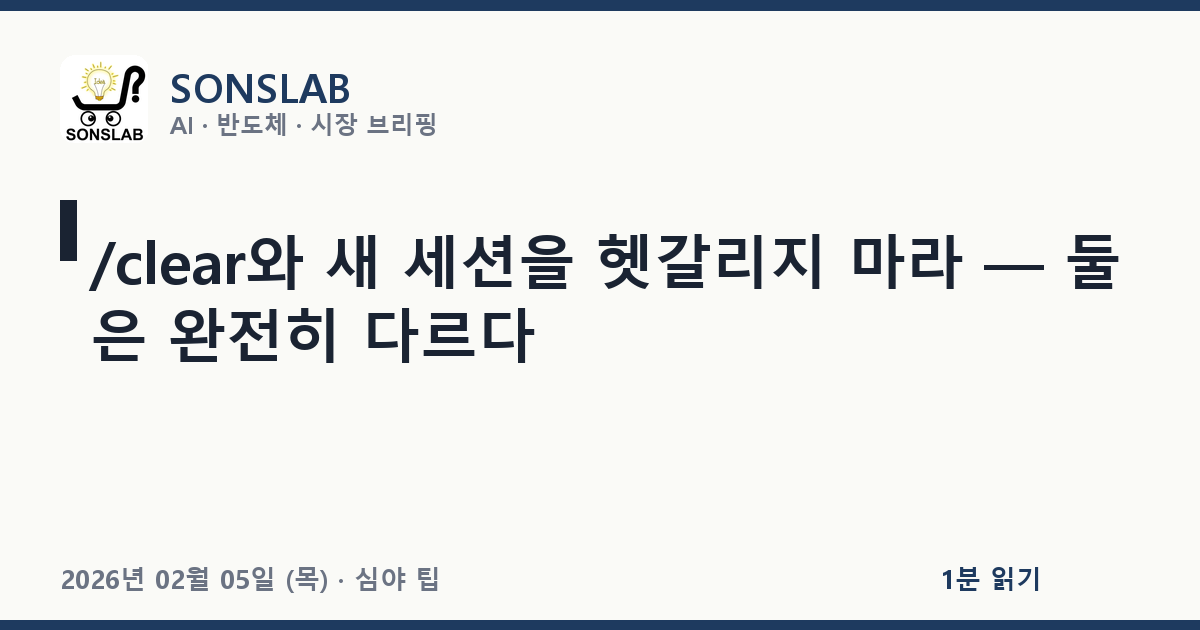
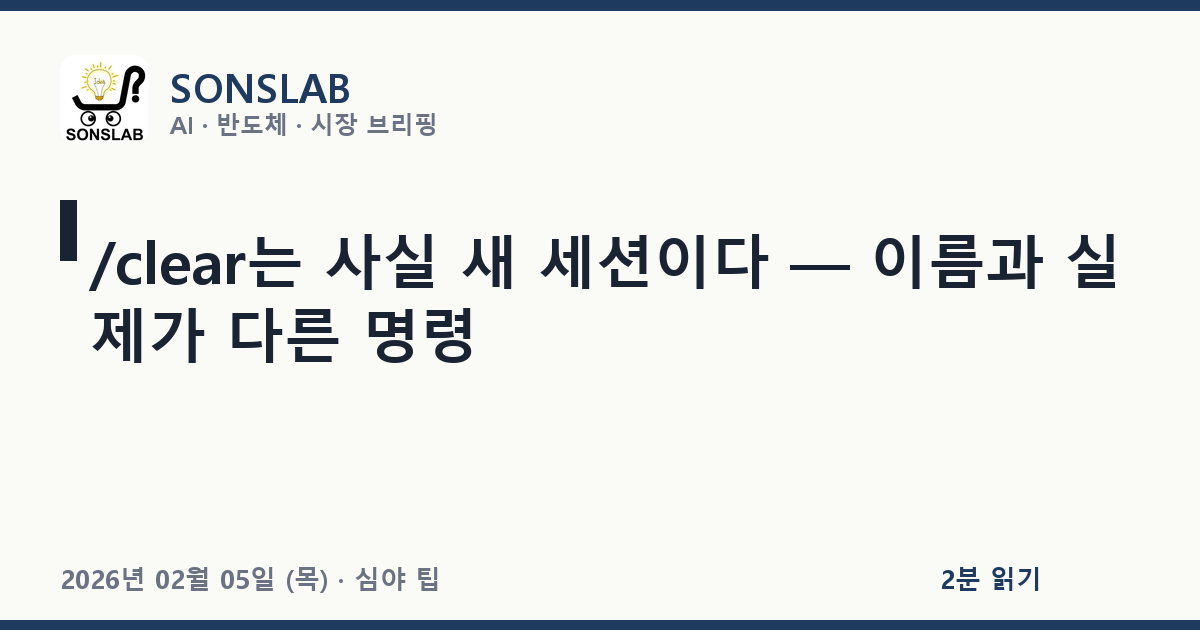
Update: 2026-04-26 11:38

Changed region(s): [[0.2775, 0.3619, 0.9558, 0.573], [0.0617, 0.3619, 0.2775, 0.573], [0.7708, 0.9048, 0.8017, 0.9349]]

diff --git a/claude-tips/index.html b/claude-tips/index.html
@@ -144,7 +144,7 @@
 
 <section class="posts-section" id="posts">
     <div class="section-label">최근 발행 — 총 18편</div>
-    <section class="aitech-month-group"><div class="aitech-month-label">2026년 4월 · 1편</div><div class="aitech-card-list"><article class="aitech-card"><div class="card-meta"><span class="topic-pill">초급 팁</span><span>2026년 04월 26일 (일) · 23:43 · 2분</span></div><h2><a href="2026-04-26-pm23.html">/clear와 /compact의 차이만 알아도 컨텍스트가 두 배로 늘어난다</a></h2><p>/clear는 컨텍스트 윈도우를 통째로 비우고, /compact는 지금까지 대화를 짧은 요약으로 접어 같은 세션을 이어간다. 둘을 섞어 쓰면 긴 작업에서도 토큰을 두 배로 굴릴 수 있다.</p></article></div></section><section class="aitech-month-group"><div class="aitech-month-label">2026년 3월 · 9편</div><div class="aitech-card-list"><article class="aitech-card"><div class="card-meta"><span class="topic-pill">고급 팁</span><span>2026년 03월 30일 (월) · 23:48 · 2분</span></div><h2><a href="2026-03-30-pm23.html">다중 에이전트 오케스트레이션 — 실제 적용 패턴 세 가지</a></h2><p>여러 에이전트를 묶어 일을 시킬 때 가장 자주 손에 잡히는 패턴은 fan-out / pipeline / referee 셋이다. 무작정 에이전트를 늘리는 건 비용만 키운다. 패턴을 의식하고 설계하면 토큰 대비 결과 품질이 명확히 올라간다.</p></article><article class="aitech-card"><div class="card-meta"><span class="topic-pill">중급 팁</span><span>2026년 03월 27일 (금) · 23:27 · 1분</span></div><h2><a href="2026-03-27-pm23.html">bash 도구를 allowlist로 묶어 사고 위험을 한 자리수로 떨어뜨린다</a></h2><p>Bash 도구를 자유 실행으로 두면 한 번의 잘못된 응답이 큰 사고로 이어진다. settings의 permissions로 명령 패턴을 화이트리스트화하면, Claude가 그 외 명령을 만나면 사용자에게 권한 확인을 묻고 멈춘다.</p></article><article class="aitech-card"><div class="card-meta"><span class="topic-pill">업데이트</span><span>2026년 03월 24일 (화) · 23:59 · 2분</span></div><h2><a href="2026-03-24-pm23.html">Claude Code의 plugin 시스템 — Cowork·CLI 양쪽에서 정리한다</a></h2><p>Claude Code와 Cowork 양쪽 모두 plugin이라는 단위로 MCP 서버·스킬·슬래시 명령·설정을 한 묶음으로 패키징·설치·공유할 수 있다. 마켓플레이스 개념도 같이 자리잡고 있어, 사내·팀별로 모음을 둘 수 있는 흐름이 굳어졌다.</p></article><article class="aitech-card"><div class="card-meta"><span class="topic-pill">초급 팁</span><span>2026년 03월 20일 (금) · 23:24 · 2분</span></div><h2><a href="2026-03-20-pm23.html">settings.json 우선순위 — 한 번 알면 다시 안 헷갈린다</a></h2><p>설정은 (1) 사용자 전역 → (2) 프로젝트 공유 → (3) 프로젝트 로컬 순서로 점점 좁아지며 덮어쓴다. 각 파일이 어디 있는지·어디까지 권한이 있는지만 외우면 hook·permission·model 설정이 어떻게 합쳐지는지 그림이 보인다.</p></article><article class="aitech-card"><div class="card-meta"><span class="topic-pill">고급 팁</span><span>2026년 03월 16일 (월) · 23:12 · 2분</span></div><h2><a href="2026-03-16-pm23.html">Claude Agent SDK로 첫 자동화 봇을 30분 만에 띄운다</a></h2><p>Claude Agent SDK는 Claude Code의 도구·에이전트 루프·컨텍스트 관리를 그대로 떼어 자기 코드 안에서 돌릴 수 있게 한 SDK다. CLI 없이 백엔드에서 에이전트를 굴리고 싶을 때의 정답이다.</p></article><article class="aitech-card"><div class="card-meta"><span class="topic-pill">중급 팁</span><span>2026년 03월 13일 (금) · 23:16 · 1분</span></div><h2><a href="2026-03-13-pm23.html">git worktree와 Claude Code: 두 흐름을 실수 없이 동시에 돌리는 법</a></h2><p>같은 리포에서 두 가지 작업(긴급 패치 + 큰 리팩터)을 번갈아 하다 보면 stash·branch checkout으로 시간이 새기 시작한다. git worktree로 디렉터리를 두 개 두면, 각 디렉터리에 Claude Code 세션을 따로 띄울 수 있어 충돌이 사라진다.</p></article><article class="aitech-card"><div class="card-meta"><span class="topic-pill">초급 팁</span><span>2026년 03월 09일 (월) · 23:39 · 1분</span></div><h2><a href="2026-03-09-pm23.html">/compact를 언제 누르면 가장 이득인가</a></h2><p>/compact는 너무 일찍 누르면 결정 흐름이 사라지고, 너무 늦게 누르면 이미 응답 품질이 흔들린 뒤다. 컨텍스트 사용률 70~85% 구간이 가장 이득 보는 타이밍이다.</p></article><article class="aitech-card"><div class="card-meta"><span class="topic-pill">S/W 신기술</span><span>2026년 03월 06일 (금) · 23:00 · 1분</span></div><h2><a href="2026-03-06-pm23.html">Cursor와 Claude Code, 겹치는 영역과 갈리는 영역</a></h2><p>AI 코딩 도구가 두 갈래로 자리잡고 있다. 한쪽은 IDE 안에서 살아 자동완성·인라인 편집을 강하게 미는 Cursor 계열, 다른 쪽은 터미널에서 살아 셸·파일·도구를 묶어 일을 맡기는 Claude Code 계열이다.</p></article><article class="aitech-card"><div class="card-meta"><span class="topic-pill">초급 팁</span><span>2026년 03월 02일 (월) · 23:44 · 1분</span></div><h2><a href="2026-03-02-pm23.html">--print 모드: Claude Code를 셸 한 줄 명령처럼 쓴다</a></h2><p>--print(또는 -p) 플래그는 인터랙티브 세션 없이 한 번 묻고 한 번 답받는 모드다. 셸 파이프라인에 끼워 넣으면 grep·jq·sed처럼 Claude를 텍스트 변환기로 쓸 수 있다.</p></article></div></section><section class="aitech-month-group"><div class="aitech-month-label">2026년 2월 · 8편</div><div class="aitech-card-list"><article class="aitech-card"><div class="card-meta"><span class="topic-pill">고급 팁</span><span>2026년 02월 27일 (금) · 23:48 · 1분</span></div><h2><a href="2026-02-27-pm23.html">커스텀 슬래시 명령으로 매일 쓰는 흐름을 한 줄에 묶는다</a></h2><p>자주 쓰는 작업 흐름은 그대로 슬래시 명령으로 굳혀버리자. 마크다운 한 장이 명령 한 줄이 된다. 같은 지시문을 매일 복붙하던 시간이 사라진다.</p></article><article class="aitech-card"><div class="card-meta"><span class="topic-pill">중급 팁</span><span>2026년 02월 23일 (월) · 23:33 · 2분</span></div><h2><a href="2026-02-23-pm23.html">MCP 서버를 5분 만에 직접 띄워본다</a></h2><p>MCP 서버는 결국 stdin/stdout으로 JSON-RPC를 주고받는 작은 서비스다. 공식 Python SDK의 FastMCP로 함수 하나에 데코레이터만 달면, 첫 자작 MCP를 5분 안에 띄울 수 있다.</p></article><article class="aitech-card"><div class="card-meta"><span class="topic-pill">중급 팁</span><span>2026년 02월 19일 (목) · 23:33 · 2분</span></div><h2><a href="2026-02-19-pm23.html">PreToolUse hook 한 줄로 위험한 명령을 사전 차단한다</a></h2><p>PreToolUse hook은 Claude가 도구를 호출하기 직전에 끼어들어 입력을 검사·차단할 수 있는 훅이다. rm -rf나 git push --force 같이 한 번 잘못 나가면 끝인 명령을 정책으로 막아두면, 머리 속에서 한 가지 걱정거리를 비울 수 있다.</p></article><article class="aitech-card"><div class="card-meta"><span class="topic-pill">초급 팁</span><span>2026년 02월 16일 (월) · 23:24 · 1분</span></div><h2><a href="2026-02-16-pm23.html">--continue와 --resume 차이만 알아도 작업 흐름이 두 배 깔끔해진다</a></h2><p>claude --continue는 마지막 세션을 그대로 이어 시작한다. claude --resume &lt;id&gt;는 ID로 지정한 특정 세션을 골라 이어 시작한다. 헷갈리면 매일 새 세션이 쌓여 정작 어제 작업으로 돌아갈 길을 잃는다.</p></article><article class="aitech-card"><div class="card-meta"><span class="topic-pill">고급 팁</span><span>2026년 02월 12일 (목) · 23:28 · 2분</span></div><h2><a href="2026-02-12-pm23.html">CLAUDE.md를 한 장이 아니라 @import로 쪼개 운영하라</a></h2><p>CLAUDE.md는 매 세션 자동 로딩되는 메모리 파일이다. 한 장에 다 욱여넣으면 토큰만 잡아먹는다. @path/to/file 임포트 문법을 써서 주제별로 쪼개고, CLAUDE.md에는 인덱스만 남기면 컨텍스트 비용을 절반 이하로 줄이면서 더 많은 정보를 보존할 수 있다.</p></article><article class="aitech-card"><div class="card-meta"><span class="topic-pill">중급 팁</span><span>2026년 02월 09일 (월) · 23:12 · 1분</span></div><h2><a href="2026-02-09-pm23.html">서브에이전트, 한 번 써보면 손에서 안 떨어진다</a></h2><p>서브에이전트는 별도 컨텍스트로 돌아가는 보조 Claude다. 독립된 임무(검색, 검증, 정리)를 맡기면 본 세션의 컨텍스트가 깔끔해지고, 작업 품질도 올라간다.</p></article><article class="aitech-card"><div class="card-meta"><span class="topic-pill">초급 팁</span><span>2026년 02월 05일 (목) · 23:52 · 1분</span></div><h2><a href="2026-02-05-pm23.html">/clear와 새 세션을 헷갈리지 마라 — 둘은 완전히 다르다</a></h2><p>/clear는 같은 세션의 컨텍스트만 비우고, 새 세션은 메모리·시스템 프롬프트는 두되 대화 이력·캐시·도구 결과 일체를 새로 시작한다. 둘을 구분 못 하면 토큰 낭비로 직결된다.</p></article><article class="aitech-card"><div class="card-meta"><span class="topic-pill">초급 팁</span><span>2026년 02월 02일 (월) · 23:08 · 1분</span></div><h2><a href="2026-02-02-pm23.html">/init 한 번이면 CLAUDE.md를 5분 안에 채울 수 있다</a></h2><p>/init 슬래시 명령은 현재 디렉터리를 훑어 코드 베이스의 골격을 정리한 CLAUDE.md를 자동 생성한다. 빈 프로젝트에서 시작할 필요 없이, 마음에 안 드는 부분만 손보면 된다.</p></article></div></section>
+    <section class="aitech-month-group"><div class="aitech-month-label">2026년 4월 · 1편</div><div class="aitech-card-list"><article class="aitech-card"><div class="card-meta"><span class="topic-pill">초급 팁</span><span>2026년 04월 26일 (일) · 23:43 · 2분</span></div><h2><a href="2026-04-26-pm23.html">/clear와 /compact의 차이만 알아도 컨텍스트가 두 배로 늘어난다</a></h2><p>/clear는 컨텍스트 윈도우를 통째로 비우고, /compact는 지금까지 대화를 짧은 요약으로 접어 같은 세션을 이어간다. 둘을 섞어 쓰면 긴 작업에서도 토큰을 두 배로 굴릴 수 있다.</p></article></div></section><section class="aitech-month-group"><div class="aitech-month-label">2026년 3월 · 9편</div><div class="aitech-card-list"><article class="aitech-card"><div class="card-meta"><span class="topic-pill">고급 팁</span><span>2026년 03월 30일 (월) · 23:48 · 2분</span></div><h2><a href="2026-03-30-pm23.html">다중 에이전트 오케스트레이션 — 실제 적용 패턴 세 가지</a></h2><p>여러 에이전트를 묶어 일을 시킬 때 가장 자주 손에 잡히는 패턴은 fan-out / pipeline / referee 셋이다. 무작정 에이전트를 늘리는 건 비용만 키운다. 패턴을 의식하고 설계하면 토큰 대비 결과 품질이 명확히 올라간다.</p></article><article class="aitech-card"><div class="card-meta"><span class="topic-pill">중급 팁</span><span>2026년 03월 27일 (금) · 23:27 · 1분</span></div><h2><a href="2026-03-27-pm23.html">bash 도구를 allowlist로 묶어 사고 위험을 한 자리수로 떨어뜨린다</a></h2><p>Bash 도구를 자유 실행으로 두면 한 번의 잘못된 응답이 큰 사고로 이어진다. settings의 permissions로 명령 패턴을 화이트리스트화하면, Claude가 그 외 명령을 만나면 사용자에게 권한 확인을 묻고 멈춘다.</p></article><article class="aitech-card"><div class="card-meta"><span class="topic-pill">업데이트</span><span>2026년 03월 24일 (화) · 23:59 · 2분</span></div><h2><a href="2026-03-24-pm23.html">Claude Code의 plugin 시스템 — Cowork·CLI 양쪽에서 정리한다</a></h2><p>Claude Code와 Cowork 양쪽 모두 plugin이라는 단위로 MCP 서버·스킬·슬래시 명령·설정을 한 묶음으로 패키징·설치·공유할 수 있다. 마켓플레이스 개념도 같이 자리잡고 있어, 사내·팀별로 모음을 둘 수 있는 흐름이 굳어졌다.</p></article><article class="aitech-card"><div class="card-meta"><span class="topic-pill">초급 팁</span><span>2026년 03월 20일 (금) · 23:24 · 2분</span></div><h2><a href="2026-03-20-pm23.html">settings.json 우선순위 — 한 번 알면 다시 안 헷갈린다</a></h2><p>설정은 (1) 사용자 전역 → (2) 프로젝트 공유 → (3) 프로젝트 로컬 순서로 점점 좁아지며 덮어쓴다. 각 파일이 어디 있는지·어디까지 권한이 있는지만 외우면 hook·permission·model 설정이 어떻게 합쳐지는지 그림이 보인다.</p></article><article class="aitech-card"><div class="card-meta"><span class="topic-pill">고급 팁</span><span>2026년 03월 16일 (월) · 23:12 · 2분</span></div><h2><a href="2026-03-16-pm23.html">Claude Agent SDK로 첫 자동화 봇을 30분 만에 띄운다</a></h2><p>Claude Agent SDK는 Claude Code의 도구·에이전트 루프·컨텍스트 관리를 그대로 떼어 자기 코드 안에서 돌릴 수 있게 한 SDK다. CLI 없이 백엔드에서 에이전트를 굴리고 싶을 때의 정답이다.</p></article><article class="aitech-card"><div class="card-meta"><span class="topic-pill">중급 팁</span><span>2026년 03월 13일 (금) · 23:16 · 1분</span></div><h2><a href="2026-03-13-pm23.html">git worktree와 Claude Code: 두 흐름을 실수 없이 동시에 돌리는 법</a></h2><p>같은 리포에서 두 가지 작업(긴급 패치 + 큰 리팩터)을 번갈아 하다 보면 stash·branch checkout으로 시간이 새기 시작한다. git worktree로 디렉터리를 두 개 두면, 각 디렉터리에 Claude Code 세션을 따로 띄울 수 있어 충돌이 사라진다.</p></article><article class="aitech-card"><div class="card-meta"><span class="topic-pill">초급 팁</span><span>2026년 03월 09일 (월) · 23:39 · 1분</span></div><h2><a href="2026-03-09-pm23.html">/compact를 언제 누르면 가장 이득인가</a></h2><p>/compact는 너무 일찍 누르면 결정 흐름이 사라지고, 너무 늦게 누르면 이미 응답 품질이 흔들린 뒤다. 컨텍스트 사용률 70~85% 구간이 가장 이득 보는 타이밍이다.</p></article><article class="aitech-card"><div class="card-meta"><span class="topic-pill">S/W 신기술</span><span>2026년 03월 06일 (금) · 23:00 · 1분</span></div><h2><a href="2026-03-06-pm23.html">Cursor와 Claude Code, 겹치는 영역과 갈리는 영역</a></h2><p>AI 코딩 도구가 두 갈래로 자리잡고 있다. 한쪽은 IDE 안에서 살아 자동완성·인라인 편집을 강하게 미는 Cursor 계열, 다른 쪽은 터미널에서 살아 셸·파일·도구를 묶어 일을 맡기는 Claude Code 계열이다.</p></article><article class="aitech-card"><div class="card-meta"><span class="topic-pill">초급 팁</span><span>2026년 03월 02일 (월) · 23:44 · 1분</span></div><h2><a href="2026-03-02-pm23.html">--print 모드: Claude Code를 셸 한 줄 명령처럼 쓴다</a></h2><p>--print(또는 -p) 플래그는 인터랙티브 세션 없이 한 번 묻고 한 번 답받는 모드다. 셸 파이프라인에 끼워 넣으면 grep·jq·sed처럼 Claude를 텍스트 변환기로 쓸 수 있다.</p></article></div></section><section class="aitech-month-group"><div class="aitech-month-label">2026년 2월 · 8편</div><div class="aitech-card-list"><article class="aitech-card"><div class="card-meta"><span class="topic-pill">고급 팁</span><span>2026년 02월 27일 (금) · 23:48 · 1분</span></div><h2><a href="2026-02-27-pm23.html">커스텀 슬래시 명령으로 매일 쓰는 흐름을 한 줄에 묶는다</a></h2><p>자주 쓰는 작업 흐름은 그대로 슬래시 명령으로 굳혀버리자. 마크다운 한 장이 명령 한 줄이 된다. 같은 지시문을 매일 복붙하던 시간이 사라진다.</p></article><article class="aitech-card"><div class="card-meta"><span class="topic-pill">중급 팁</span><span>2026년 02월 23일 (월) · 23:33 · 2분</span></div><h2><a href="2026-02-23-pm23.html">MCP 서버를 5분 만에 직접 띄워본다</a></h2><p>MCP 서버는 결국 stdin/stdout으로 JSON-RPC를 주고받는 작은 서비스다. 공식 Python SDK의 FastMCP로 함수 하나에 데코레이터만 달면, 첫 자작 MCP를 5분 안에 띄울 수 있다.</p></article><article class="aitech-card"><div class="card-meta"><span class="topic-pill">중급 팁</span><span>2026년 02월 19일 (목) · 23:33 · 2분</span></div><h2><a href="2026-02-19-pm23.html">PreToolUse hook 한 줄로 위험한 명령을 사전 차단한다</a></h2><p>PreToolUse hook은 Claude가 도구를 호출하기 직전에 끼어들어 입력을 검사·차단할 수 있는 훅이다. rm -rf나 git push --force 같이 한 번 잘못 나가면 끝인 명령을 정책으로 막아두면, 머리 속에서 한 가지 걱정거리를 비울 수 있다.</p></article><article class="aitech-card"><div class="card-meta"><span class="topic-pill">초급 팁</span><span>2026년 02월 16일 (월) · 23:24 · 1분</span></div><h2><a href="2026-02-16-pm23.html">--continue와 --resume 차이만 알아도 작업 흐름이 두 배 깔끔해진다</a></h2><p>claude --continue는 마지막 세션을 그대로 이어 시작한다. claude --resume &lt;id&gt;는 ID로 지정한 특정 세션을 골라 이어 시작한다. 헷갈리면 매일 새 세션이 쌓여 정작 어제 작업으로 돌아갈 길을 잃는다.</p></article><article class="aitech-card"><div class="card-meta"><span class="topic-pill">고급 팁</span><span>2026년 02월 12일 (목) · 23:28 · 2분</span></div><h2><a href="2026-02-12-pm23.html">CLAUDE.md를 한 장이 아니라 @import로 쪼개 운영하라</a></h2><p>CLAUDE.md는 매 세션 자동 로딩되는 메모리 파일이다. 한 장에 다 욱여넣으면 토큰만 잡아먹는다. @path/to/file 임포트 문법을 써서 주제별로 쪼개고, CLAUDE.md에는 인덱스만 남기면 컨텍스트 비용을 절반 이하로 줄이면서 더 많은 정보를 보존할 수 있다.</p></article><article class="aitech-card"><div class="card-meta"><span class="topic-pill">중급 팁</span><span>2026년 02월 09일 (월) · 23:12 · 1분</span></div><h2><a href="2026-02-09-pm23.html">서브에이전트, 한 번 써보면 손에서 안 떨어진다</a></h2><p>서브에이전트는 별도 컨텍스트로 돌아가는 보조 Claude다. 독립된 임무(검색, 검증, 정리)를 맡기면 본 세션의 컨텍스트가 깔끔해지고, 작업 품질도 올라간다.</p></article><article class="aitech-card"><div class="card-meta"><span class="topic-pill">초급 팁</span><span>2026년 02월 05일 (목) · 23:52 · 2분</span></div><h2><a href="2026-02-05-pm23.html">/clear는 사실 새 세션이다 — 이름과 실제가 다른 명령</a></h2><p>/clear는 이름과 달리 현재 세션 안에서 대화만 지우는 게 아니다. 내부적으로 새 세션 UUID를 만들고 그쪽으로 전환한다. 즉 새 터미널에서 claude를 다시 띄우는 것과 거의 같은 효과다. &quot;둘 중 뭐가 더 깨끗할까&quot;를 고민하는 건 거의 의미가 없다.</p></article><article class="aitech-card"><div class="card-meta"><span class="topic-pill">초급 팁</span><span>2026년 02월 02일 (월) · 23:08 · 1분</span></div><h2><a href="2026-02-02-pm23.html">/init 한 번이면 CLAUDE.md를 5분 안에 채울 수 있다</a></h2><p>/init 슬래시 명령은 현재 디렉터리를 훑어 코드 베이스의 골격을 정리한 CLAUDE.md를 자동 생성한다. 빈 프로젝트에서 시작할 필요 없이, 마음에 안 드는 부분만 손보면 된다.</p></article></div></section>
 </section>
 
 

diff --git a/claude-tips/2026-02-05-pm23.html b/claude-tips/2026-02-05-pm23.html
@@ -3,7 +3,7 @@
 <head>
     <meta charset="UTF-8">
     <meta name="viewport" content="width=device-width, initial-scale=1.0">
-    <title>/clear와 새 세션을 헷갈리지 마라 — 둘은 완전히 다르다 — SONSLAB</title>
+    <title>/clear는 사실 새 세션이다 — 이름과 실제가 다른 명령 — SONSLAB</title>
     <link rel="icon" href="../assets/logo.jpg">
     <link rel="alternate" type="application/atom+xml" title="SONSLAB Feed" href="../feed.xml">
     <link rel="preconnect" href="https://fonts.googleapis.com">
@@ -11,19 +11,19 @@
     <link href="https://cdn.jsdelivr.net/gh/orioncactus/pretendard@v1.3.9/dist/web/variable/pretendardvariable-dynamic-subset.min.css" rel="stylesheet">
     <link href="https://fonts.googleapis.com/css2?family=Noto+Serif+KR:wght@400;500;600;700;900&family=Source+Serif+4:ital,wght@0,400;0,600;0,700;1,400&display=swap" rel="stylesheet">
     <link rel="stylesheet" href="../assets/style.css">
-    <meta name="description" content="/clear는 같은 세션의 컨텍스트만 비우고, 새 세션은 메모리·시스템 프롬프트는 두되 대화 이력·캐시·도구 결과 일체를 새로 시작한다. 둘을 구분 못 하면 토큰 낭비로 직결된다.">
+    <meta name="description" content="/clear는 이름과 달리 현재 세션 안에서 대화만 지우는 게 아니다. 내부적으로 새 세션 UUID를 만들고 그쪽으로 전환한다. 즉 새 터미널에서 claude를 다시 띄우는 것과 거의 같은 효과다. &quot;둘 중 뭐가 더 깨끗할까&quot;를 고민하는 건 거의 의미가 없다.">
     <meta name="author" content="SONSLAB">
     <link rel="canonical" href="https://shonsubong.github.io/sonslab-blog/claude-tips/2026-02-05-pm23.html">
     <meta property="og:site_name" content="SONSLAB">
     <meta property="og:type" content="article">
-    <meta property="og:title" content="/clear와 새 세션을 헷갈리지 마라 — 둘은 완전히 다르다">
-    <meta property="og:description" content="/clear는 같은 세션의 컨텍스트만 비우고, 새 세션은 메모리·시스템 프롬프트는 두되 대화 이력·캐시·도구 결과 일체를 새로 시작한다. 둘을 구분 못 하면 토큰 낭비로 직결된다.">
+    <meta property="og:title" content="/clear는 사실 새 세션이다 — 이름과 실제가 다른 명령">
+    <meta property="og:description" content="/clear는 이름과 달리 현재 세션 안에서 대화만 지우는 게 아니다. 내부적으로 새 세션 UUID를 만들고 그쪽으로 전환한다. 즉 새 터미널에서 claude를 다시 띄우는 것과 거의 같은 효과다. &quot;둘 중 뭐가 더 깨끗할까&quot;를 고민하는 건 거의 의미가 없다.">
     <meta property="og:url" content="https://shonsubong.github.io/sonslab-blog/claude-tips/2026-02-05-pm23.html">
     <meta property="og:image" content="https://shonsubong.github.io/sonslab-blog/assets/og/2026-02-05-pm23.png">
     <meta property="og:locale" content="ko_KR">
     <meta name="twitter:card" content="summary_large_image">
-    <meta name="twitter:title" content="/clear와 새 세션을 헷갈리지 마라 — 둘은 완전히 다르다">
-    <meta name="twitter:description" content="/clear는 같은 세션의 컨텍스트만 비우고, 새 세션은 메모리·시스템 프롬프트는 두되 대화 이력·캐시·도구 결과 일체를 새로 시작한다. 둘을 구분 못 하면 토큰 낭비로 직결된다.">
+    <meta name="twitter:title" content="/clear는 사실 새 세션이다 — 이름과 실제가 다른 명령">
+    <meta name="twitter:description" content="/clear는 이름과 달리 현재 세션 안에서 대화만 지우는 게 아니다. 내부적으로 새 세션 UUID를 만들고 그쪽으로 전환한다. 즉 새 터미널에서 claude를 다시 띄우는 것과 거의 같은 효과다. &quot;둘 중 뭐가 더 깨끗할까&quot;를 고민하는 건 거의 의미가 없다.">
     <meta name="twitter:image" content="https://shonsubong.github.io/sonslab-blog/assets/og/2026-02-05-pm23.png">
     <meta property="article:published_time" content="2026-02-05T23:00:00+09:00">
     <meta property="article:modified_time" content="2026-02-05T23:00:00+09:00">
@@ -56,8 +56,8 @@
     } catch (e) {}
 })();
 </script>
-    <script type="application/ld+json">{"@context": "https://schema.org", "@type": "BlogPosting", "headline": "/clear와 새 세션을 헷갈리지 마라 — 둘은 완전히 다르다", "description": "/clear는 같은 세션의 컨텍스트만 비우고, 새 세션은 메모리·시스템 프롬프트는 두되 대화 이력·캐시·도구 결과 일체를 새로 시작한다. 둘을 구분 못 하면 토큰 낭비로 직결된다.", "url": "https://shonsubong.github.io/sonslab-blog/claude-tips/2026-02-05-pm23.html", "mainEntityOfPage": "https://shonsubong.github.io/sonslab-blog/claude-tips/2026-02-05-pm23.html", "inLanguage": "ko", "image": "https://shonsubong.github.io/sonslab-blog/assets/og/2026-02-05-pm23.png", "author": {"@type": "Person", "name": "SONSLAB"}, "publisher": {"@type": "Organization", "name": "SONSLAB", "logo": {"@type": "ImageObject", "url": "https://shonsubong.github.io/sonslab-blog/assets/logo.jpg"}}, "datePublished": "2026-02-05T23:00:00+09:00", "dateModified": "2026-02-05T23:00:00+09:00"}</script>
-    <script type="application/ld+json">{"@context": "https://schema.org", "@type": "BreadcrumbList", "itemListElement": [{"@type": "ListItem", "position": 1, "name": "SONSLAB", "item": "https://shonsubong.github.io/sonslab-blog/"}, {"@type": "ListItem", "position": 2, "name": "글", "item": "https://shonsubong.github.io/sonslab-blog/#posts"}, {"@type": "ListItem", "position": 3, "name": "/clear와 새 세션을 헷갈리지 마라 — 둘은 완전히 다르다", "item": "https://shonsubong.github.io/sonslab-blog/claude-tips/2026-02-05-pm23.html"}]}</script>
+    <script type="application/ld+json">{"@context": "https://schema.org", "@type": "BlogPosting", "headline": "/clear는 사실 새 세션이다 — 이름과 실제가 다른 명령", "description": "/clear는 이름과 달리 현재 세션 안에서 대화만 지우는 게 아니다. 내부적으로 새 세션 UUID를 만들고 그쪽으로 전환한다. 즉 새 터미널에서 claude를 다시 띄우는 것과 거의 같은 효과다. \"둘 중 뭐가 더 깨끗할까\"를 고민하는 건 거의 의미가 없다.", "url": "https://shonsubong.github.io/sonslab-blog/claude-tips/2026-02-05-pm23.html", "mainEntityOfPage": "https://shonsubong.github.io/sonslab-blog/claude-tips/2026-02-05-pm23.html", "inLanguage": "ko", "image": "https://shonsubong.github.io/sonslab-blog/assets/og/2026-02-05-pm23.png", "author": {"@type": "Person", "name": "SONSLAB"}, "publisher": {"@type": "Organization", "name": "SONSLAB", "logo": {"@type": "ImageObject", "url": "https://shonsubong.github.io/sonslab-blog/assets/logo.jpg"}}, "datePublished": "2026-02-05T23:00:00+09:00", "dateModified": "2026-02-05T23:00:00+09:00"}</script>
+    <script type="application/ld+json">{"@context": "https://schema.org", "@type": "BreadcrumbList", "itemListElement": [{"@type": "ListItem", "position": 1, "name": "SONSLAB", "item": "https://shonsubong.github.io/sonslab-blog/"}, {"@type": "ListItem", "position": 2, "name": "글", "item": "https://shonsubong.github.io/sonslab-blog/#posts"}, {"@type": "ListItem", "position": 3, "name": "/clear는 사실 새 세션이다 — 이름과 실제가 다른 명령", "item": "https://shonsubong.github.io/sonslab-blog/claude-tips/2026-02-05-pm23.html"}]}</script>
 </head>
 <body class="post-page" data-category="claude-tips">
     <div class="reading-progress" id="reading-progress" role="progressbar" aria-label="읽기 진행률"></div>
@@ -140,23 +140,24 @@
 <article class="post-article">
     <div class="post-header">
         <a href="index.html" class="back-link">← Claude Code 팁 목록</a>
-        <h1>/clear와 새 세션을 헷갈리지 마라 — 둘은 완전히 다르다</h1>
+        <h1>/clear는 사실 새 세션이다 — 이름과 실제가 다른 명령</h1>
         <div class="post-meta">
             <span class="time-label">심야 팁</span>
             <span>2026년 02월 05일 (목) · 23:52</span>
             <span>·</span>
-            <span>1분 읽기</span>
+            <span>2분 읽기</span>
         </div>
     </div>
     
     <details class="post-toc" open><summary>목차</summary><div class="toc">
 <div class="toc">
 <ul>
-<li><a href="#clear">/clear와 새 세션을 헷갈리지 마라 — 둘은 완전히 다르다</a><ul>
+<li><a href="#clear">/clear는 사실 새 세션이다 — 이름과 실제가 다른 명령</a><ul>
 <li><a href="#_1">한 줄 요약</a></li>
 <li><a href="#_2">어떤 상황에서 쓰나</a></li>
-<li><a href="#_3">실제 명령</a></li>
+<li><a href="#_3">실제로 뭐가 같고 뭐가 다른가</a></li>
 <li><a href="#_4">주의/한계</a></li>
+<li><a href="#_5">더 읽을거리</a></li>
 </ul>
 </li>
 </ul>
@@ -165,28 +166,45 @@
 </div>
 </details>
     <div class="post-content">
-<h1 id="clear">/clear와 새 세션을 헷갈리지 마라 — 둘은 완전히 다르다</h1>
+<h1 id="clear">/clear는 사실 새 세션이다 — 이름과 실제가 다른 명령</h1>
 <h2 id="_1">한 줄 요약</h2>
-<p><code>/clear</code>는 같은 세션의 컨텍스트만 비우고, 새 세션은 메모리·시스템 프롬프트는 두되 대화 이력·캐시·도구 결과 일체를 새로 시작한다. 둘을 구분 못 하면 토큰 낭비로 직결된다.</p>
+<p><code>/clear</code>는 이름과 달리 <strong>현재 세션 안에서 대화만 지우는 게 아니다</strong>. 내부적으로 새 세션 UUID를 만들고 그쪽으로 전환한다. 즉 새 터미널에서 <code>claude</code>를 다시 띄우는 것과 거의 같은 효과다. "둘 중 뭐가 더 깨끗할까"를 고민하는 건 거의 의미가 없다.</p>
 <h2 id="_2">어떤 상황에서 쓰나</h2>
-<p>같은 워크트리에서 작업 중이고 다음 작업도 비슷한 흐름이라면 <code>/clear</code>. 화제가 완전히 바뀌거나, MCP 도구 상태가 꼬여 보일 때, 디스크 캐시까지 초기화하고 싶을 때는 새 세션.</p>
-<h2 id="_3">실제 명령</h2>
-<pre class="codehilite"><code class="language-text">/clear
+<p>작업 흐름이 끝났고 다음으로 넘어가고 싶을 때. 컨텍스트가 80%를 넘어 응답이 둔해질 때. 이 두 경우 모두 <code>/clear</code>든 새 세션이든 결과는 같다 — 컨텍스트는 비고, <code>CLAUDE.md</code>는 다시 로딩되고, 디스크 파일은 그대로 남는다.</p>
+<h2 id="_3">실제로 뭐가 같고 뭐가 다른가</h2>
+<pre class="codehilite"><code class="language-text">/clear         새로운 conversationId 부여 → 빈 컨텍스트로 시작
+새 세션 (claude)   새로운 conversationId 부여 → 빈 컨텍스트로 시작
 </code></pre>
 
-<p>세션은 그대로, 컨텍스트 윈도우만 초기화. <code>CLAUDE.md</code>와 메모리 파일은 다시 로딩된다.</p>
-<p>새 세션은 보통 터미널에서 <code>claude</code> 명령을 다시 실행하거나, IDE 통합이라면 새 사이드바 패널을 연다. 진행 중이던 작업 흐름을 이어가고 싶다면 <code>claude --continue</code> 쪽이 정답이다 (다른 글에서 다룰 예정).</p>
+<p>같은 점:</p>
+<ul>
+<li>둘 다 새로운 <code>conversationId</code>를 받는다 (<code>/clear</code>도 마찬가지다 — GitHub 이슈 #37451·#32871 참고)</li>
+<li>둘 다 <code>CLAUDE.md</code>·메모리 파일을 다시 읽어 들인다</li>
+<li>둘 다 디스크에 만들어 둔 파일은 건드리지 않는다</li>
+<li>둘 다 이전 세션은 디스크에 그대로 남아 <code>claude --resume</code>으로 되살릴 수 있다</li>
+</ul>
+<p>차이라고 부를 만한 것:</p>
+<ul>
+<li><code>/clear</code>는 키 한 번. 새 세션은 새 셸 창을 띄워야 한다.</li>
+<li>새 세션은 셸의 cwd·env가 새로 잡힌다. <code>/clear</code>는 셸 상태를 그대로 둔 채 진행한다.</li>
+<li>사용자 인터페이스 측면에서 <code>/clear</code>는 "한 흐름 안에서 정리"처럼 보이게 표시되지만, 내부 저장 구조로는 두 동작이 사실상 같다.</li>
+</ul>
 <h2 id="_4">주의/한계</h2>
 <ul>
-<li><code>/clear</code> 직후엔 직전 파일을 다시 <code>Read</code>로 보여줘야 한다. Claude가 잠깐 잊었다고 생각하면 된다.</li>
-<li>새 세션을 띄우면 임시 변수, 일회성 도구 응답이 사라진다. 결과물은 미리 파일로 떨어뜨려 두자.</li>
-<li>"메모리"와 "컨텍스트"를 같은 말로 쓰지 말 것. 메모리는 영구 파일, 컨텍스트는 휘발성 윈도우다.</li>
+<li><code>/clear</code>로 잃은 대화를 되찾으려면 새 세션이 시작되기 직전의 옛 세션을 <code>claude --resume</code>에서 골라야 한다. 같은 세션 안에서 "방금 누른 /clear 취소" 같은 것은 현재 없다.</li>
+<li>"/clear가 컨텍스트만 비우고 세션은 유지된다"는 흔한 오해다. 그렇게 동작하지 않는다는 점만 알아두면 디버깅 때 헛고생을 안 한다.</li>
+<li>화제가 이어지는데 컨텍스트만 다듬고 싶으면 <code>/clear</code>가 아니라 <code>/compact</code>다. <code>/compact</code>는 진짜로 같은 세션 안에서 직전 대화를 요약해 끼워 넣는다.</li>
+</ul>
+<h2 id="_5">더 읽을거리</h2>
+<ul>
+<li><a href="https://docs.claude.com/en/docs/claude-code/slash-commands">Claude Code 공식 문서 — Slash commands</a></li>
+<li><a href="https://github.com/anthropics/claude-code/issues/37451">GitHub 이슈 #37451 — /clear creates a new session</a></li>
 </ul>
     </div>
     
 <div class="post-share">
     <span class="share-label">공유하기</span>
-    <a href="https://twitter.com/intent/tweet?text=/clear와 새 세션을 헷갈리지 마라 — 둘은 완전히 다르다&url=https://shonsubong.github.io/sonslab-blog/claude-tips/2026-02-05-pm23.html"
+    <a href="https://twitter.com/intent/tweet?text=/clear는 사실 새 세션이다 — 이름과 실제가 다른 명령&url=https://shonsubong.github.io/sonslab-blog/claude-tips/2026-02-05-pm23.html"
        class="share-btn" target="_blank" rel="noopener" aria-label="X(Twitter)에 공유">
         <span>X</span>
     </a>

diff --git a/claude-tips/2026-02-09-pm23.html b/claude-tips/2026-02-09-pm23.html
@@ -214,7 +214,7 @@
 <nav class="post-nav-bottom" aria-label="이전/다음 글">
     <a href="2026-02-05-pm23.html" class="post-nav-link prev">
         <span class="post-nav-label">← 이전 글</span>
-        <span class="post-nav-title">/clear와 새 세션을 헷갈리지 마라 — 둘은 완전히 다르다</span>
+        <span class="post-nav-title">/clear는 사실 새 세션이다 — 이름과 실제가 다른 명령</span>
     </a>
     <a href="2026-02-12-pm23.html" class="post-nav-link next">
         <span class="post-nav-label">다음 글 →</span>

diff --git a/claude-tips/2026-02-02-pm23.html b/claude-tips/2026-02-02-pm23.html
@@ -212,7 +212,7 @@
     
     <a href="2026-02-05-pm23.html" class="post-nav-link next">
         <span class="post-nav-label">다음 글 →</span>
-        <span class="post-nav-title">/clear와 새 세션을 헷갈리지 마라 — 둘은 완전히 다르다</span>
+        <span class="post-nav-title">/clear는 사실 새 세션이다 — 이름과 실제가 다른 명령</span>
     </a>
 </nav>
     
